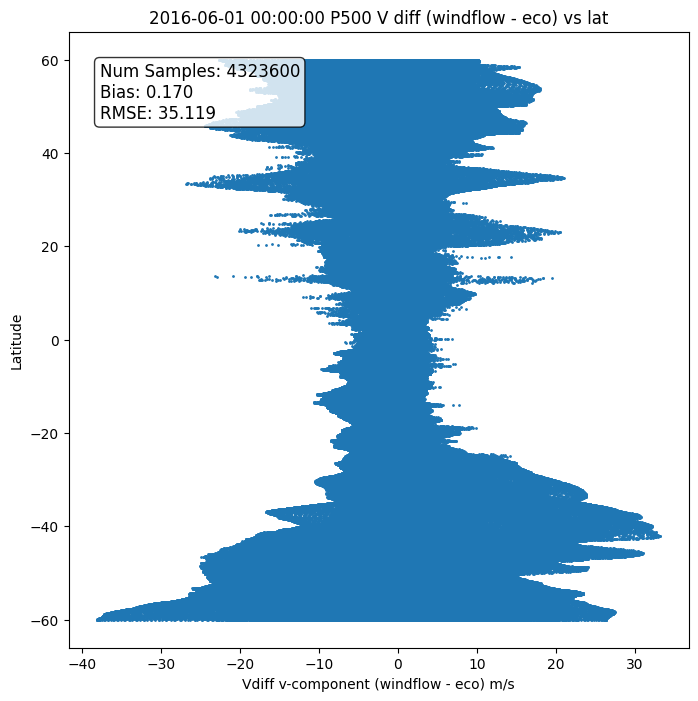
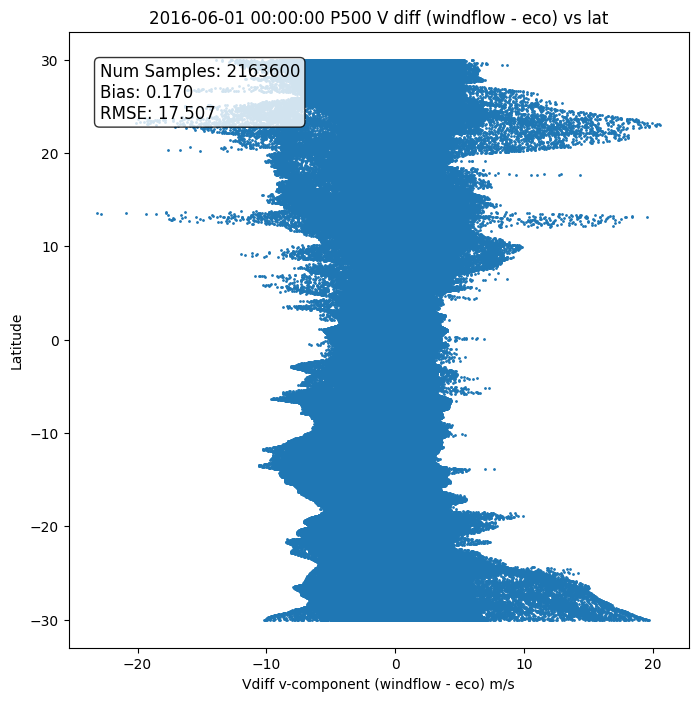
new plots

diff --git a/scatter.py b/scatter.py
@@ -25,9 +25,9 @@ def main():
         w_u = f.variables['uwind'][:]
         w_v = f.variables['vwind'][:]
     assert np.all(lat == w_lat)
-
+    
     expanded_lat = np.tile(lat, (3600, 1)).T
-    mask = (expanded_lat <= 60) & (expanded_lat >= -60) # Mask the region of interest, as well as the minimum humidity value.
+    mask = (expanded_lat <= 30) & (expanded_lat >= -30) # Mask the region of interest, as well as the minimum humidity value.
 
     # Select masked regions
     eco_u = eco_u[mask]
